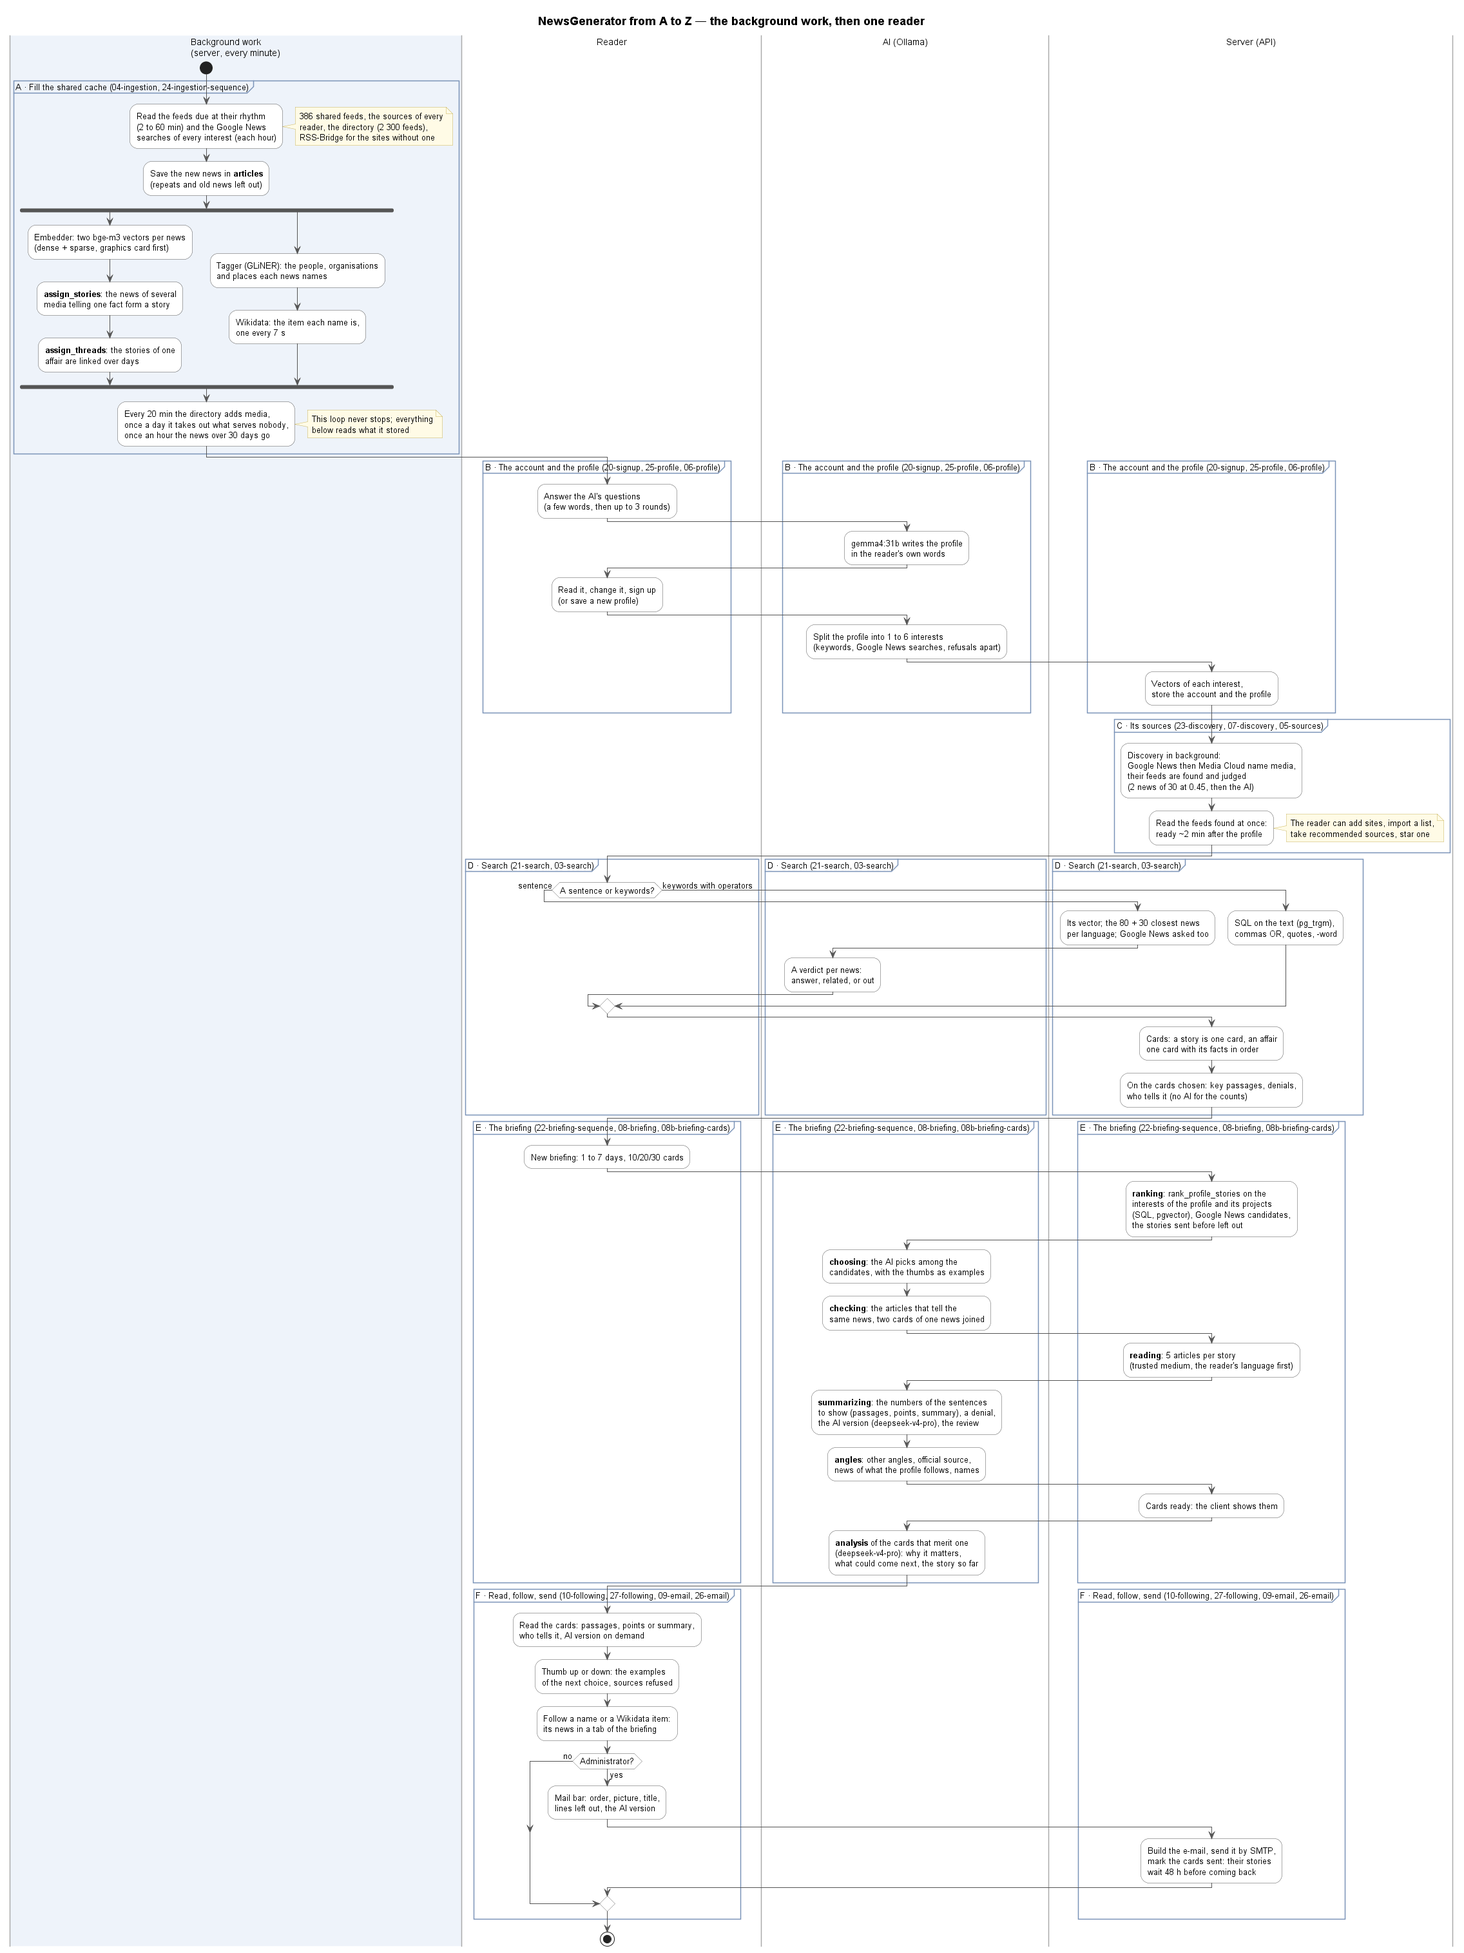
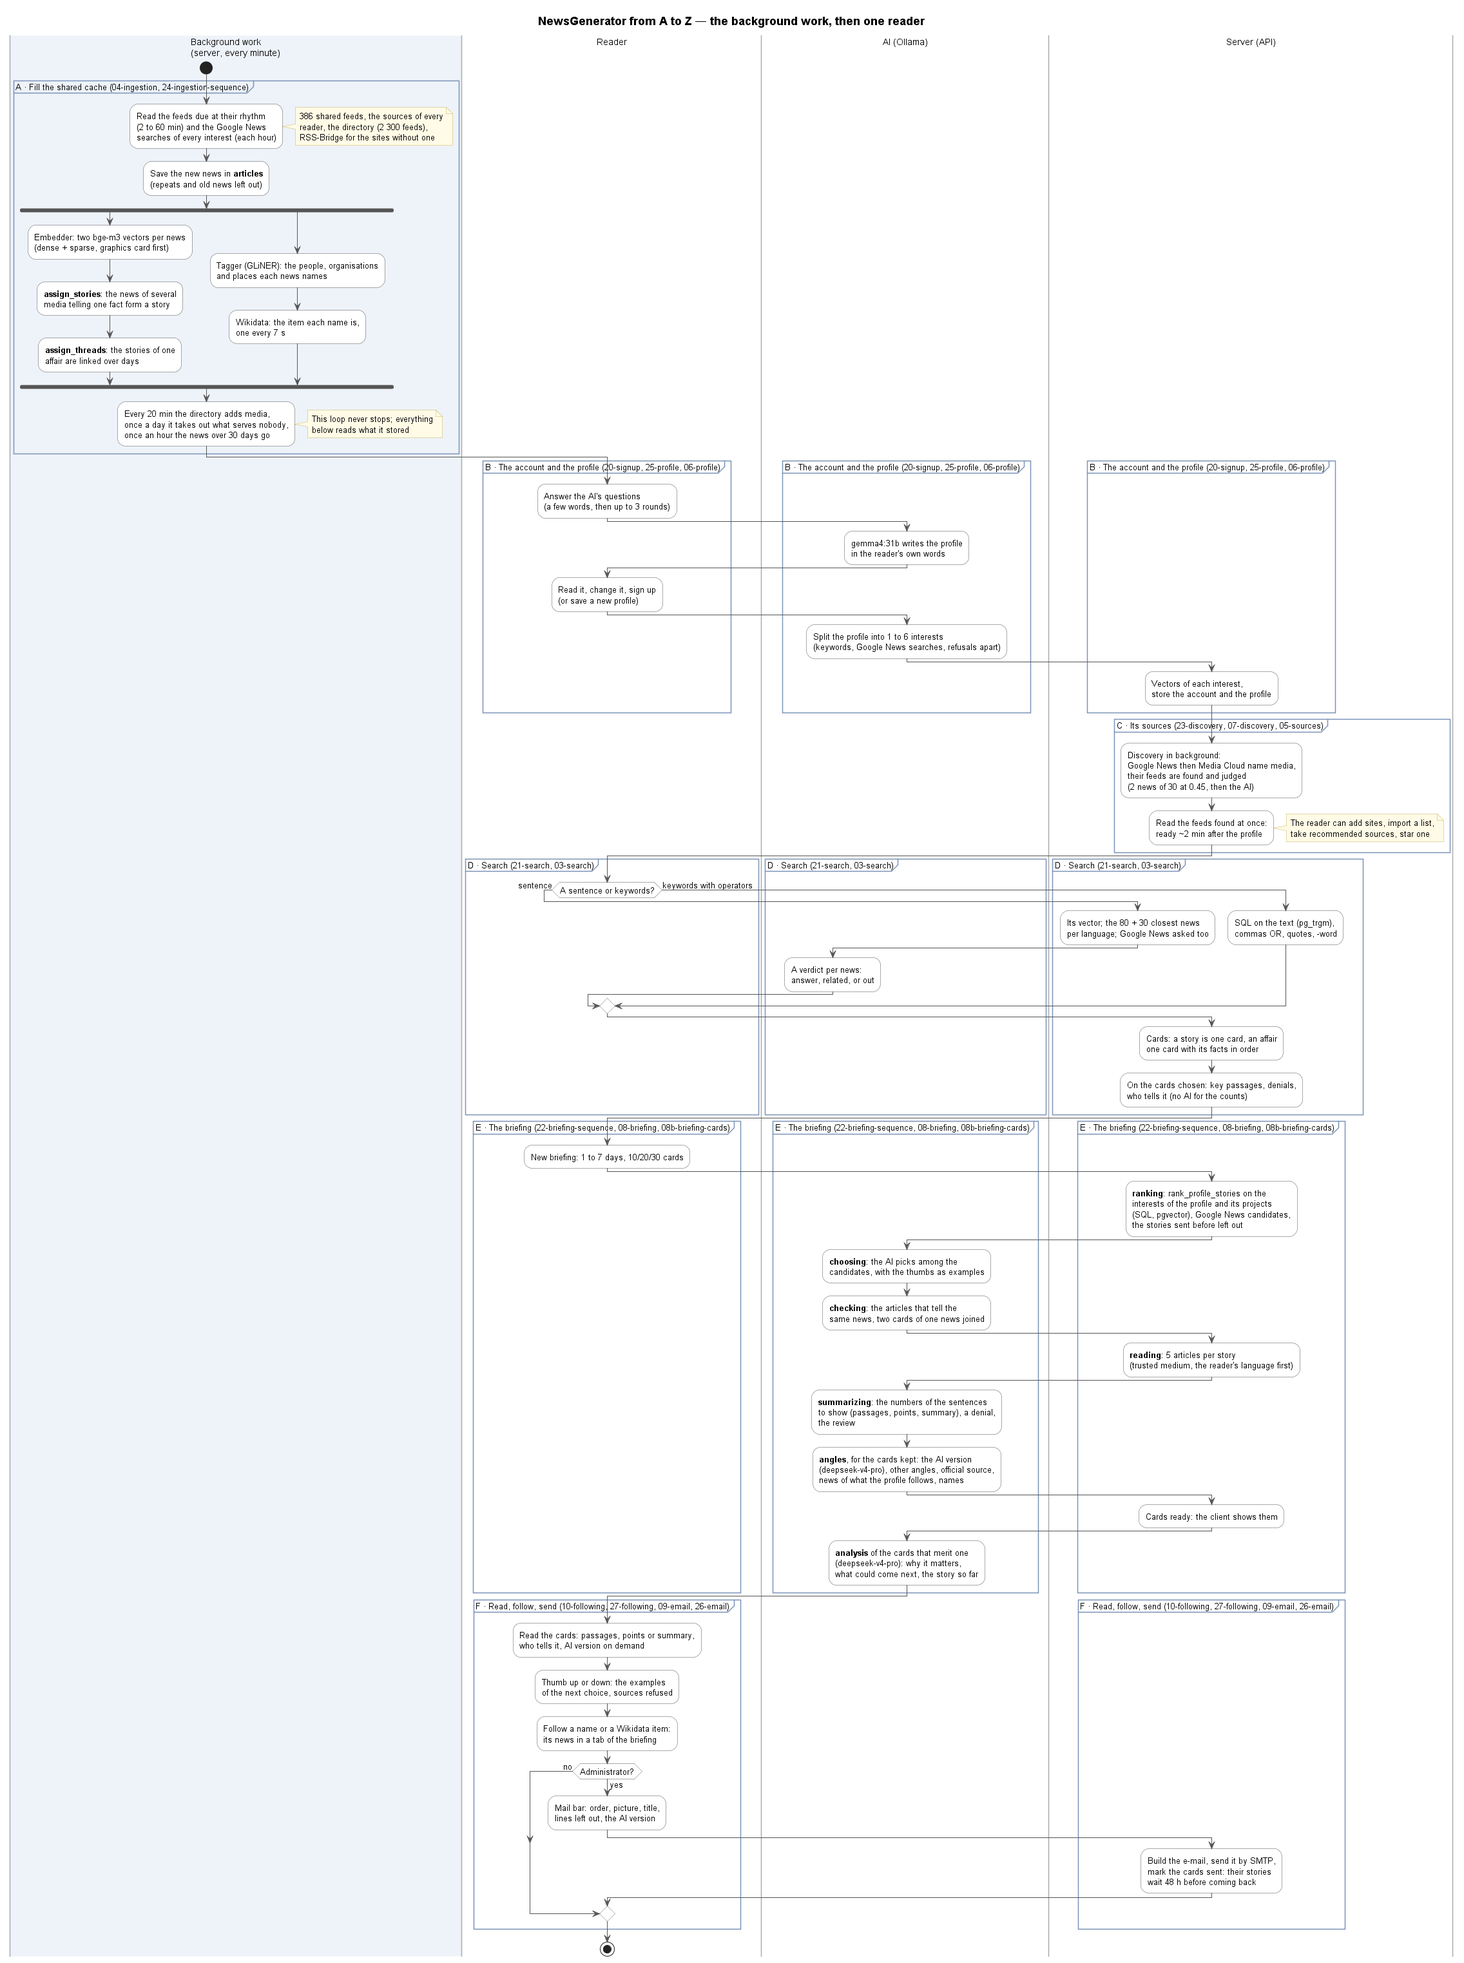
Docs: the fixes of 17.10 in the README, the walkthrough and the A to Z diagram
The AI version is written in the step "angles" for the cards kept, no longer beside the passages; an
analysis is failed after 12 minutes with no card done; a source the reader removed is no longer read
for the briefing of its profile; the login finds the name whatever its case.

diff --git a/docs/a-to-z/parcours-newsgenerator.html b/docs/a-to-z/parcours-newsgenerator.html
@@ -138,9 +138,9 @@ code { font-family: var(--mono); font-size: 0.86em; }
     <span>Mesuré le <b>7 octobre 2026</b> sur le serveur Ubuntu</span>
     <span>Lecteur d'exemple : <b>Enzo</b> (arbitrage, UEFA, lit en français)</span>
     <span>Script : <b>server/bench/funnel-now.mjs</b></span>
-    <span>Texte mis à jour le <b>16 octobre 2026</b></span>
+    <span>Texte mis à jour le <b>17 octobre 2026</b></span>
   </div>
-  <p class="note">Le fonctionnement décrit est celui du 16 octobre 2026. Les chiffres viennent de la mesure du 7 octobre vers 1 h 30, sauf quand une autre date est donnée. « Parcours d'une nouvelle » suit, lui, une nouvelle dans un briefing complet d'Enzo écrit le 17 octobre, analyse comprise : ses nombres sont de ce jour-là (107 545 nouvelles dans ses sources, 47 candidates, 10 cartes), c'est un autre moment et un autre briefing.</p>
+  <p class="note">Le fonctionnement décrit est celui du 17 octobre 2026. Les chiffres viennent de la mesure du 7 octobre vers 1 h 30, sauf quand une autre date est donnée. « Parcours d'une nouvelle » suit, lui, une nouvelle dans un briefing complet d'Enzo écrit le 17 octobre, analyse comprise : ses nombres sont de ce jour-là (107 545 nouvelles dans ses sources, 47 candidates, 10 cartes), c'est un autre moment et un autre briefing.</p>
 </header>
 
 <section>
@@ -303,7 +303,7 @@ code { font-family: var(--mono); font-size: 0.86em; }
           <li>Nom ou e-mail déjà pris : refus immédiat (409), sans appeler l'IA. L'unicité ignore les majuscules.</li>
           <li>Le compte n'est créé qu'une fois le profil compris (étape A2). Si l'IA ou les vecteurs échouent, aucun compte ne reste.</li>
           <li>Au plus 5 inscriptions par heure et 10 connexions par quart d'heure par adresse IP.</li>
-          <li>Connexion : mot de passe vérifié par bcrypt, session dans un cookie que la page ne peut pas lire (HttpOnly), valable 7 jours et renouvelée chaque jour d'usage.</li>
+          <li>Connexion : le nom quelle que soit sa casse, le mot de passe vérifié par bcrypt ; un nom inconnu et un mauvais mot de passe reçoivent la même réponse, dans le même temps (17 octobre). Session dans un cookie que la page ne peut pas lire (HttpOnly), valable 7 jours et renouvelée chaque jour d'usage.</li>
           <li>Compte : nom d'utilisateur, e-mail et mot de passe changés depuis la page Settings ou la section « Your account » du profil, chacun avec le mot de passe actuel ; un nouveau mot de passe ferme les sessions des autres appareils.</li>
           <li>Plusieurs profils (« Travail », « Loisirs ») pour les administrateurs, 15 au plus : chacun a ses intérêts, ses projets, ses sources, ses votes, ce qu'il suit et ses briefings. La page envoie le profil choisi avec chaque demande (en-tête <code>X-Profile</code>).</li>
           <li>Projets (13 octobre) : ce que le lecteur prépare pour un temps (un voyage, un achat, un rapport), 5 au plus par profil, écrits avec les questions de l'IA comme un profil, avec un dernier jour dans l'année ou aucun. Leurs intérêts entrent dans le classement du briefing jusqu'à ce jour ; aucune source n'est cherchée pour eux.</li>
@@ -358,7 +358,7 @@ code { font-family: var(--mono); font-size: 0.86em; }
           <li>Deux temps : les flux trouvés par Google News sont ajoutés et lus aussitôt, puis vient la presse de Media Cloud. La page du profil dit quel temps tourne, et qu'il est inutile d'attendre sur la page.</li>
           <li>Media Cloud répond à 2 recherches par minute : toutes sont posées dès le départ et gardées un jour ; une seule par langue hors celle du lecteur et l'anglais (file de 27 à 13 min sur 5 profils).</li>
           <li>Une découverte arrêtée par un redémarrage reprend d'elle-même.</li>
-          <li>Au plus 20 flux par découverte, 60 au total. Un flux qui n'apporte plus rien sur le profil en 14 jours est retiré ; le lecteur peut aussi en retirer un lui-même (il n'est alors plus jamais retrouvé) et le ramener.</li>
+          <li>Au plus 20 flux par découverte, 60 au total. Un flux qui n'apporte plus rien sur le profil en 14 jours est retiré ; le lecteur peut aussi en retirer un lui-même (il n'est alors plus jamais retrouvé, ni lu pour ses briefings même si un autre lecteur l'a) et le ramener.</li>
           <li>Le lecteur ajoute aussi ses propres sources, 800 au plus : un site, une recherche dans l'annuaire et sur le web, un fichier (OPML, CSV, Excel), ou une source que d'autres lecteurs lisent sur ses intérêts, confirmée par l'IA.</li>
           <li>Les sources de chaque lecteur sont lues pour tous les briefings et toutes les recherches (depuis le 8 octobre). Seules restent à part les adresses qui portent une clé et celles de notre RSS-Bridge.</li>
         </ul>
@@ -656,7 +656,7 @@ code { font-family: var(--mono); font-size: 0.86em; }
         <ul>
           <li>Au plus 5 passages, 170 mots ; traduction automatique marquée comme telle, chiffres contrôlés.</li>
           <li>Deux façons plus courtes de lire la carte, faites des mêmes phrases publiées (12 octobre) : 3 points, les phrases les plus importantes d'abord, et un résumé de 65 mots. Le lecteur choisit l'une des trois sur la page et pour l'e-mail.</li>
-          <li>Version de l'IA (15 octobre) : sur demande (« Show AI version »), les points et le résumé écrits par deepseek-v4-pro, marqués comme tels, retirés s'ils contiennent un chiffre absent de l'article. Mesuré sur 30 articles, 2 passes : 1 à 2 articles avec une erreur de sens (gemma4:31b 2 à 3, les phrases publiées 0) ; d'où une version à demander, à côté des phrases du journaliste.</li>
+          <li>Version de l'IA (15 octobre) : sur demande (« Show AI version »), les points et le résumé écrits par deepseek-v4-pro, pour les cartes gardées seulement, à l'étape « angles » (C7, depuis le 17 octobre), marqués comme tels, retirés s'ils contiennent un chiffre absent de l'article. Mesuré sur 30 articles, 2 passes : 1 à 2 articles avec une erreur de sens (gemma4:31b 2 à 3, les phrases publiées 0) ; d'où une version à demander, à côté des phrases du journaliste.</li>
           <li>Un titre coupé par le flux est repris en entier de la page (14 octobre).</li>
           <li>Pourquoi : les résumés réécrits changeaient le sens dans 4 cas sur 30.</li>
           <li>Corroboration : chaque média compte, mais deux textes qui partagent la moitié de leurs suites de 8 mots sont une même dépêche d'agence.</li>
@@ -699,7 +699,7 @@ code { font-family: var(--mono); font-size: 0.86em; }
       <div class="no">C7</div>
       <div class="body">
         <h3>Autres angles, source officielle, ce que le profil suit</h3>
-        <p>Les cartes prêtes, quatre recherches partent ensemble (étape « angles ») : les autres angles de chaque carte, sa source officielle, les nouvelles de ce que le profil suit (D3) et les noms de chaque carte.</p>
+        <p>Les cartes prêtes, cinq recherches partent ensemble (étape « angles ») : la version de l'IA des cartes gardées (C5), les autres angles de chaque carte, sa source officielle, les nouvelles de ce que le profil suit (D3) et les noms de chaque carte.</p>
         <ul>
           <li>Angles : les histoires de toutes les langues des 3 derniers jours proches de la carte (0,6 et plus), 8 au plus par carte, jugées par l'IA sur leurs titres, avec jusqu'à 5 autres titres de la carte : « le même fait », « un autre angle », « le même thème » ou « autre chose ». S'y ajoutent les histoires des 30 derniers jours qui nomment les noms rares de la carte (13 octobre, B6). 5 angles au plus par carte, un par fait, jamais la nouvelle de la carte racontée une seconde fois.</li>
           <li>Le même fait avec un détail de plus n'est pas un autre angle : sans cette règle, une candidature racontée dans 16 langues revenait en angles d'elle-même.</li>
@@ -728,7 +728,7 @@ code { font-family: var(--mono); font-size: 0.86em; }
         <ul>
           <li>deepseek-v4-pro sans raisonnement choisit les cartes ; puis, avec raisonnement, 3 cartes à la fois, il écrit pour chacune pourquoi elle compte (2 lignes), ce qui pourrait suivre, « si ceci, alors cela » (2 lignes), et l'histoire jusqu'ici, tirée des histoires plus anciennes de son affaire (12 au plus).</li>
           <li>Chaque ligne cite les sources de la carte seulement ; le code retire une ligne dont un chiffre ou un nom n'est pas dans ses sources (les noms lus par l'étiqueteur, B6).</li>
-          <li>Pas de limite de cartes ; une analyse encore en cours après 12 minutes est montrée en échec. Elle ne passe jamais à Gemini : un échec, c'est seulement pas d'analyse.</li>
+          <li>Pas de limite de cartes ; chaque carte finie note son heure, et une analyse n'est montrée en échec qu'après 12 minutes sans carte finie (17 octobre : avant, 12 minutes après son début, alors qu'une longue tournait encore). Elle ne passe jamais à Gemini : un échec, c'est seulement pas d'analyse.</li>
         </ul>
         <div class="chips"><span class="chip">card-analysis.js</span><span class="chip">deepseek-v4-pro</span><span class="chip">briefings.analysis</span></div>
       </div>
@@ -879,7 +879,7 @@ code { font-family: var(--mono); font-size: 0.86em; }
   <p>Chiffres mesurés le 7 octobre 2026 vers 1 h 30 (heure suisse) sur la base du serveur, le PC de jeu éteint : l'embedder tournait sur le processeur de l'Ubuntu, très chargé (charge moyenne de 10 à 15 pour 6 cœurs). Ingestion : 24 dernières heures de la base ; lectures de flux et durée des passes tirées des 76 passes des 3 dernières heures du journal. Briefing : rejoué avec le code du 7 octobre sur le compte d'Enzo jusqu'à la vérification et la fusion, sans rien enregistrer (sans le retrait des sources inutiles ni les versions dans sa langue) ; lecture, passages, réserve et durée totale tirés de 2 briefings de 48 h écrits en entier le 6 octobre sans être enregistrés (server/bench/briefing-relevance.mjs) ; durées sur 24 h tirées de ses vrais briefings du 4 au 6 octobre. Découverte : server/bench/discovery-phases.mjs, à blanc, le 6 octobre. Les chiffres marqués d'une date plus ancienne n'ont pas été mesurés à nouveau. Les pourcentages de qualité (88 %, 95 %, 96 %, 85 %) viennent des mesures précédentes du projet, jugées à la main.</p>
   <p>Le classement des histoires (C1) et la recherche (D2) étaient 3 à 6 fois plus lents que le 3 octobre : la base a doublé en 4 jours, surtout par l'annuaire qui s'agrandit seul (938 → 1 382 flux), et le processeur était occupé par l'embedder.</p>
   <p>Le 3 octobre, environ 90 histoires mélangées avant la règle des affiches ont été découpées après coup (plus de 400 nouvelles déplacées, sauvegardes dans server/bench/data/matchups).</p>
-  <p>Texte mis à jour le 16 octobre 2026 : briefings de 1 à 7 jours, projets, cartes envoyées écartées 48 h, points et résumé, version de l'IA, analyse des cartes, source officielle, noms relevés dans chaque nouvelle et noms des cartes, une seule liste de ce que le profil suit, e-mail aux formats choisis, 6 appels à Ollama au plus. Mis à jour le 12 octobre 2026 avec ce qui a changé depuis la mesure : création de compte par les questions de l'IA et fermée par défaut, mot de passe du site retiré, plusieurs profils, compte modifiable depuis le profil, part de chaque intérêt, briefings de 10, 20 ou 30 cartes, réserve plus grande, versions dans les autres langues, lecture des pages sans Crawlee d'abord, relecture par les refus, autres angles, termes suivis et page Following, envoi par e-mail, sources de chaque lecteur lues pour tous, archives sautées, embedders ensemble et tri de l'annuaire. Ces changements n'ont pas été remesurés en entier : leurs chiffres portent leur date.</p>
+  <p>Mis à jour le 17 octobre 2026 : la version de l'IA des seules cartes gardées, une analyse en échec seulement sans carte finie depuis 12 minutes, une source retirée plus lue pour son profil, la connexion quelle que soit la casse du nom. Texte mis à jour le 16 octobre 2026 : briefings de 1 à 7 jours, projets, cartes envoyées écartées 48 h, points et résumé, version de l'IA, analyse des cartes, source officielle, noms relevés dans chaque nouvelle et noms des cartes, une seule liste de ce que le profil suit, e-mail aux formats choisis, 6 appels à Ollama au plus. Mis à jour le 12 octobre 2026 avec ce qui a changé depuis la mesure : création de compte par les questions de l'IA et fermée par défaut, mot de passe du site retiré, plusieurs profils, compte modifiable depuis le profil, part de chaque intérêt, briefings de 10, 20 ou 30 cartes, réserve plus grande, versions dans les autres langues, lecture des pages sans Crawlee d'abord, relecture par les refus, autres angles, termes suivis et page Following, envoi par e-mail, sources de chaque lecteur lues pour tous, archives sautées, embedders ensemble et tri de l'annuaire. Ces changements n'ont pas été remesurés en entier : leurs chiffres portent leur date.</p>
 </footer>
 
 </div>

diff --git a/README.md b/README.md
@@ -1160,17 +1160,17 @@ as the page shows them while it runs (`briefings.step`):
    language of the reader (the card is then summarized from it, with no translation), then one per
    medium. The real address of a news of Google News is asked only for the stories no feed lets read,
    and for the article in the language of the reader read first (2 per story, 10 per briefing).
-5. **Summarizing**, 5 stories at once. For each, three calls together: the **key passages** of the
+5. **Summarizing**, 5 stories at once. For each, two calls together: the **key passages** of the
    first article read in full, with the shorter ways to read the card made of the same published
    sentences, 3 **points** and a **summary** of 65 words, translated for a reader of another language
-   (see **Key passages** above); a **denial** among its articles (`contested.js`); and the **AI version**
-   of its points and summary (see below). Then a title the feed cut is taken back whole from its page,
+   (see **Key passages** above); and a **denial** among its articles (`contested.js`). Then a title the feed cut is taken back whole from its page,
    who wrote the story apart from the others is measured (see **Corroboration**), and the cards are read
    once more with their passages, which say what a title may not: the ones on what the reader refuses
    are left out (`reviewCards`). Meanwhile the titles written in another language than the reader's are
    translated, as their passages. A card that can't be read takes the next story of the reserve, two
    rounds at most (`readable-cards.js`).
-6. **Angles**, four parts together, none of which can fail the briefing: the **other angles** of each
+6. **Angles**, for the cards kept, five parts together, none of which can fail the briefing: the **AI
+   version** of their points and summary (see below); the **other angles** of each
    card, 5 at most (`other-angles.js`: the closest stories of the window and the stories of 30 days naming
    its rare names, judged by the AI, one per fact, never the lead's news told again); its **official
    source** (`official-sources.js`, below); the news of what the profile follows (see **What a profile

diff --git a/docs/sources/trusted-and-thumbs/README.md b/docs/sources/trusted-and-thumbs/README.md
@@ -40,7 +40,9 @@ nor recommended again, until the reader brings it back.
   otherwise); its url is appended to `user_profiles.kept_sources`. It is never left out again, nor pruned.
 - **Removed** (`removeSource`): `REMOVE_PROFILE_FEED` deletes the `user_feeds` row of this profile
   (`origin 'profile'` only) and appends `{url, site, category, language}` to `user_profiles.removed_sources`
-  in one statement (0 rows: 404). The discovery treats its medium as known, the recommendations exclude it.
+  in one statement (0 rows: 404). The discovery treats its medium as known, the recommendations exclude it,
+  and the briefing of this profile no longer reads it, even when another reader has it (`feedsOf`,
+  since 17.10.2026).
   A source added by hand is deleted with `DELETE /feeds/:id` and not remembered.
 - **Restored** (`restoreSource`): the removed source whose key matches (404 otherwise);
   `RESTORE_PROFILE_FEED` takes it out of `removed_sources` and inserts it back as a `profile` feed
